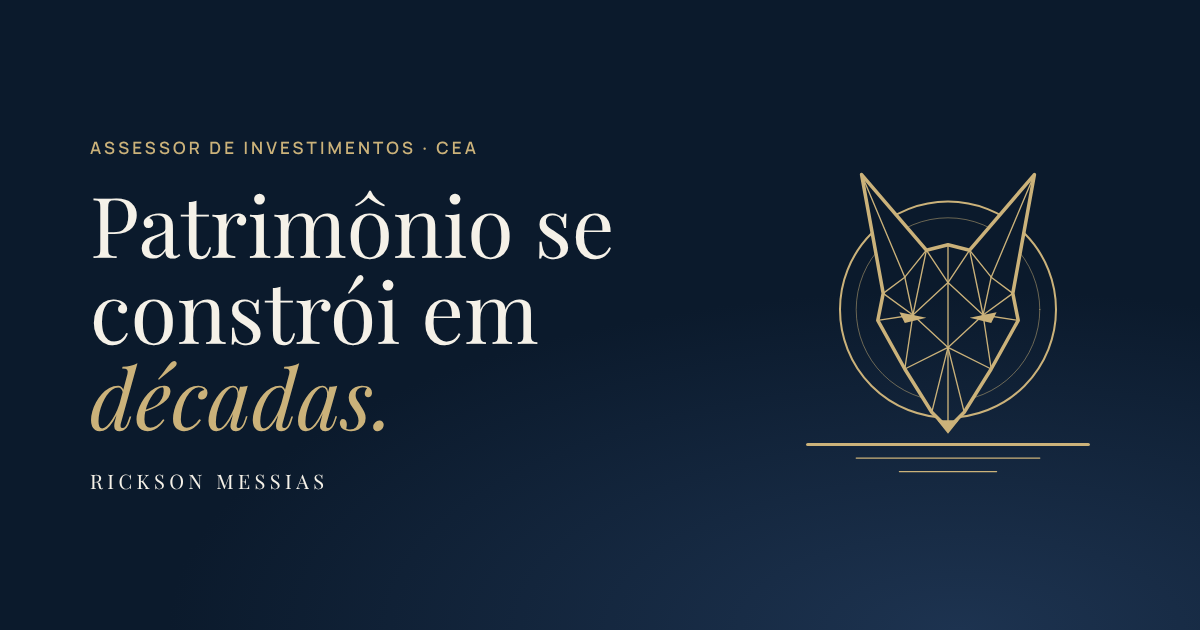
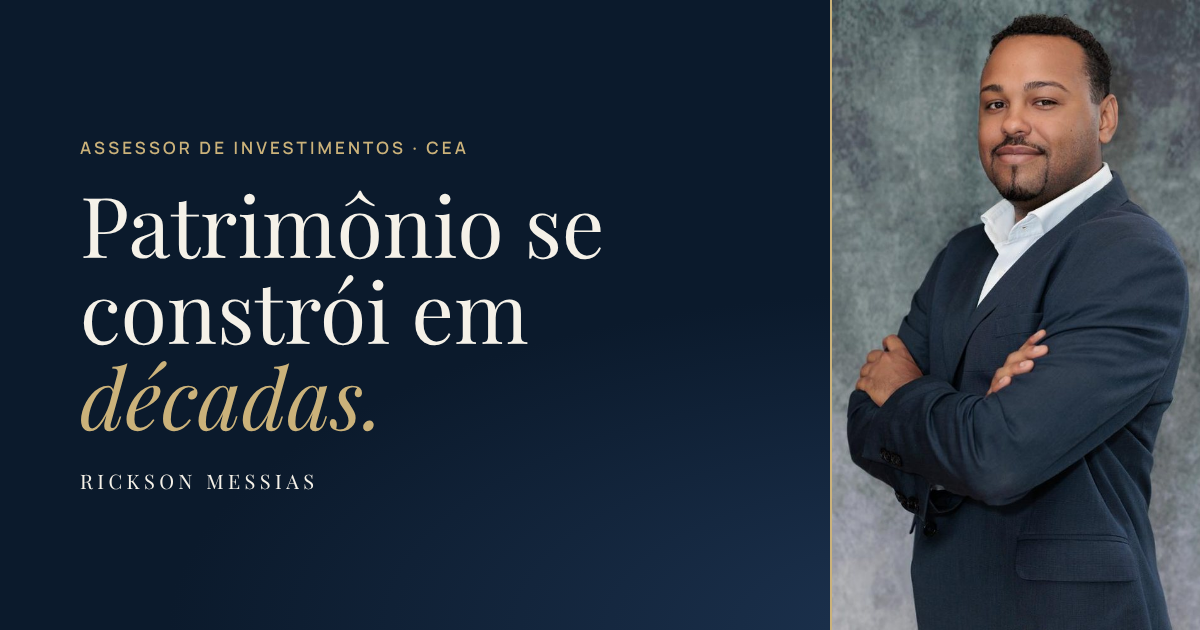
Site: foto do ensaio, WhatsApp (assistente virtual) e imagem de compartilhamento
Claude-Session: https://claude.ai/code/session_01UsCoxitwsB7SkXoqrKc7HH

diff --git a/site/web/src/config.ts b/site/web/src/config.ts
@@ -8,8 +8,10 @@ export const SITE = {
   assinatura: 'Patrimônio se constrói em décadas.',
   // Provisório até o e-mail da marca existir.
   email: 'contato@ricksonmessias.com',
-  // Só dígitos com DDI, ex.: '5521999999999'. null = o WhatsApp não aparece no site.
-  whatsapp: null as string | null,
+  // Só dígitos com DDI. Atendido pelo assistente virtual (IA) de Rickson; o site avisa isso.
+  whatsapp: '5521992053248' as string | null,
+  whatsappRotulo: 'WhatsApp · assistente virtual',
+  whatsappMensagem: 'Olá! Vim pelo site ricksonmessias.com e gostaria de falar com o Rickson.',
   redes: [
     { nome: 'Instagram', rotulo: '@ofilhomaisrico', url: 'https://instagram.com/ofilhomaisrico' },
     { nome: 'YouTube', rotulo: '@ofilhomaisrico', url: 'https://youtube.com/@ofilhomaisrico' },
@@ -20,8 +22,14 @@ export const SITE = {
   rodapeRegulatorio:
     'Conteúdo de caráter informativo, que não constitui recomendação de investimento. Rentabilidade passada não é garantia de rentabilidade futura. Rickson Messias é assessor de investimentos vinculado à EQI Investimentos, nos termos da regulamentação da CVM.',
   prazoRetorno: 'até 2 dias úteis',
-  // Fotos do ensaio: coloque em public/imagens/ e informe o caminho (ex.: '/imagens/retrato.jpg').
-  retrato: null as string | null
+  // Foto do ensaio (public/imagens/retrato-{480,800}.{webp,jpg}). null = painel da marca no lugar.
+  retrato: '/imagens/retrato' as string | null,
+  avatar: '/imagens/avatar' as string | null
+}
+
+export function linkWhatsapp(): string | null {
+  if (!SITE.whatsapp) return null
+  return `https://wa.me/${SITE.whatsapp}?text=${encodeURIComponent(SITE.whatsappMensagem)}`
 }
 
 export const FORM_ENDPOINT: string = import.meta.env.PUBLIC_FORM_ENDPOINT ?? ''

diff --git a/site/web/src/scripts/formularios.ts b/site/web/src/scripts/formularios.ts
@@ -50,7 +50,7 @@ async function enviar(form: HTMLFormElement) {
     form.reset()
     status(form, 'ok', form.dataset.mensagemOk ?? 'Pronto. Recebido.')
   } catch {
-    status(form, 'erro', 'Não foi possível enviar agora. Tente de novo em instantes ou escreva para contato@ricksonmessias.com.')
+    status(form, 'erro', 'Não foi possível enviar agora. Tente de novo em instantes, escreva para contato@ricksonmessias.com ou chame no WhatsApp (21) 99205-3248.')
   } finally {
     if (botao && rotulo !== undefined) {
       botao.disabled = false

diff --git a/site/web/README.md b/site/web/README.md
@@ -64,8 +64,9 @@ Se o FTP da Hostinger já abrir dentro de `public_html`, troque `server-dir` em 
 ## Antes de publicar (pendências)
 
 - [ ] Compliance da EQI: rodapé regulatório, página Assessoria, valor mínimo e política de privacidade.
-- [ ] Pergunta "Quanto custa ter um assessor?" (fica fora do site até a redação ser aprovada; ver `src/pages/assessoria.astro`).
-- [ ] WhatsApp (`src/config.ts`) e e-mail da marca.
-- [ ] Fotos do ensaio: `public/imagens/retrato.jpg` e `retrato: '/imagens/retrato.jpg'` em `src/config.ts`.
-- [ ] Capítulos do livro (`src/pages/livro-e-palestras.astro`, lista `capitulos`).
+- [ ] Pergunta "Quanto custa ter um assessor?": entra com a tabela padrão de assessoria que Rickson vai enviar (ver `src/pages/assessoria.astro`).
+- [x] WhatsApp (21) 99205-3248, atendido pelo assistente virtual (o site avisa isso no atendimento e na privacidade).
+- [x] Foto do ensaio (`public/imagens/retrato-*`, `avatar.*` e `og.png`).
+- [ ] E-mail da marca (hoje `contato@ricksonmessias.com`, provisório).
+- [ ] Livro: arquivo ainda não recebido; capítulos entram em `src/pages/livro-e-palestras.astro` (lista `capitulos`).
 - [ ] Revisar e desmarcar "rascunho" dos primeiros artigos.

diff --git a/site/BRIEFING.md b/site/BRIEFING.md
@@ -79,10 +79,10 @@ Portal de análises de Rickson Messias, assessor de investimentos CEA na EQI. Fu
 8. Compliance da EQI → compra do domínio e da Hostinger → publicação
 
 ## Pendências
-- [ ] Fotos do ensaio (retrato + ambiente)
+- [x] Foto do ensaio (uma foto, usada em Home, Sobre, artigos e compartilhamento)
 - [ ] Comprar domínio ricksonmessias.com + plano Hostinger
 - [ ] Confirmar o vínculo/texto regulatório com o compliance da EQI
-- [ ] Telefone/WhatsApp público para o site
+- [x] WhatsApp (21) 99205-3248 (assistente virtual de IA; avisado no site)
 - [ ] Criar o e-mail da marca (o site usa contato@ricksonmessias.com como provisório)
 - [ ] "[ano]" da visão no brand book
 - [ ] Lista dos conteúdos a reaproveitar (roteiros, cartas) para os primeiros artigos
